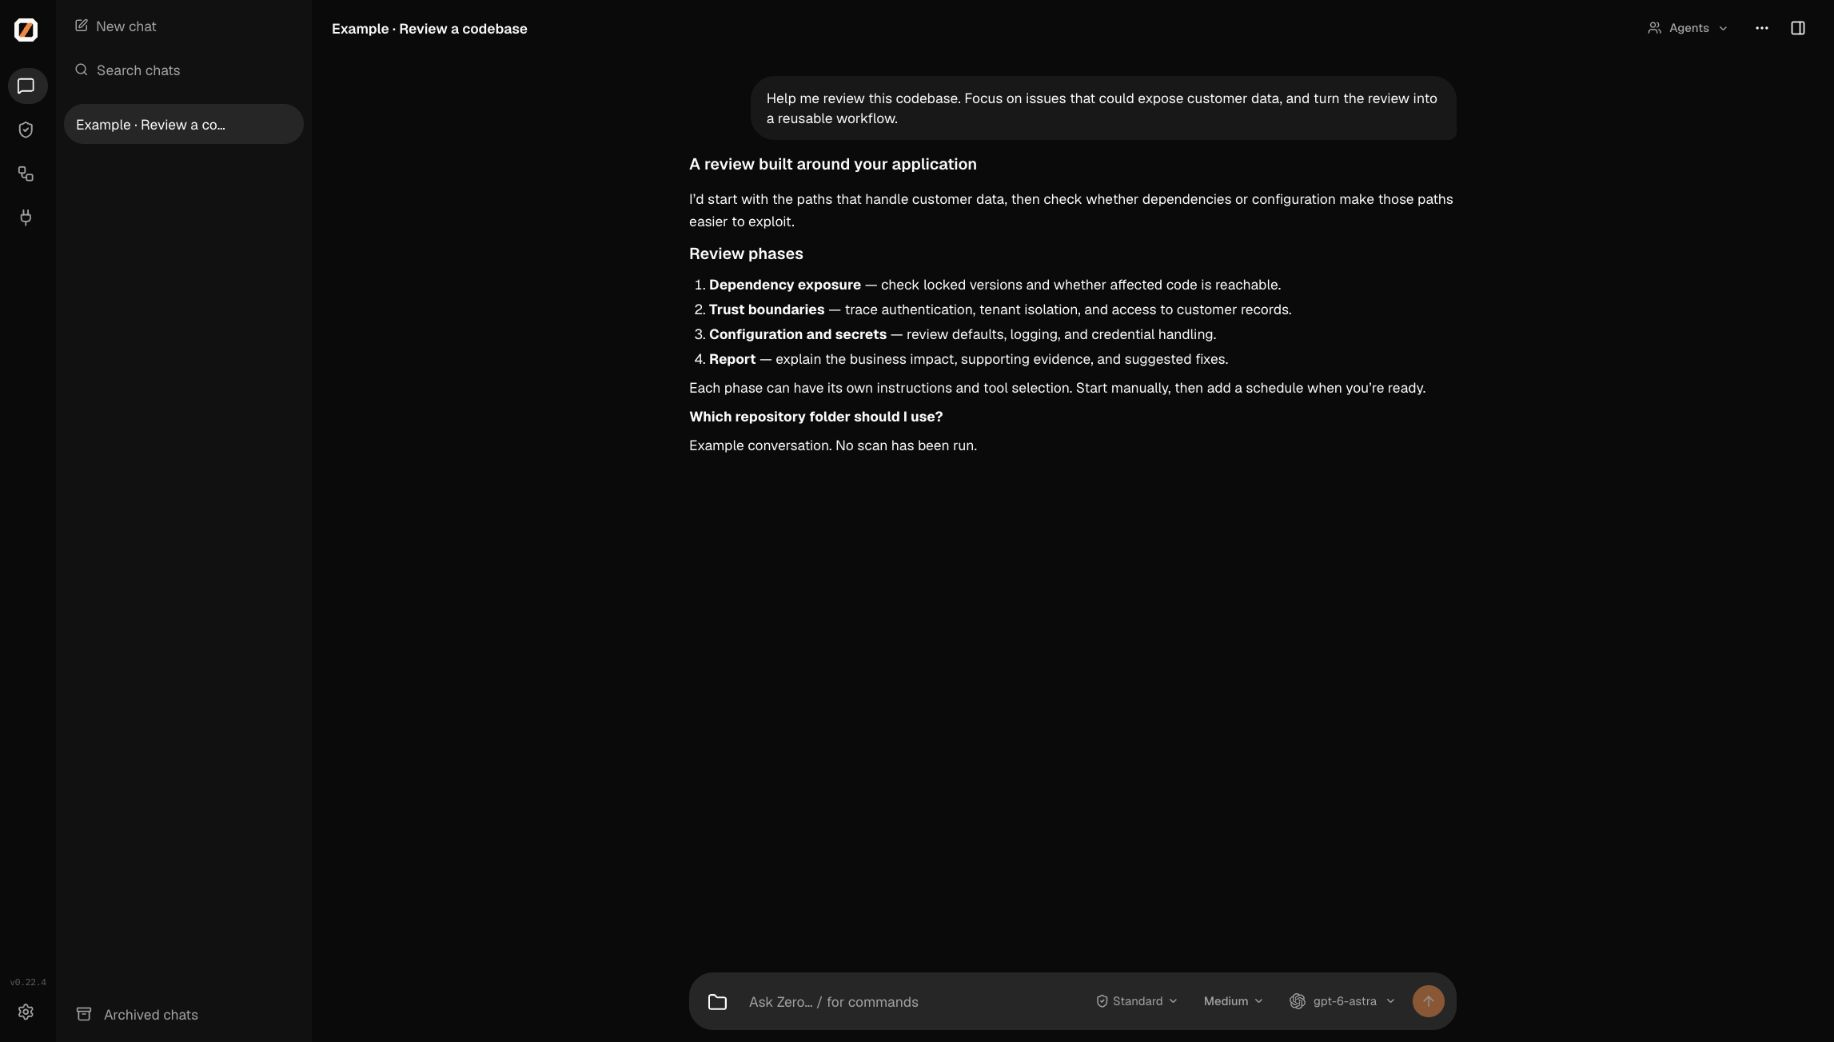
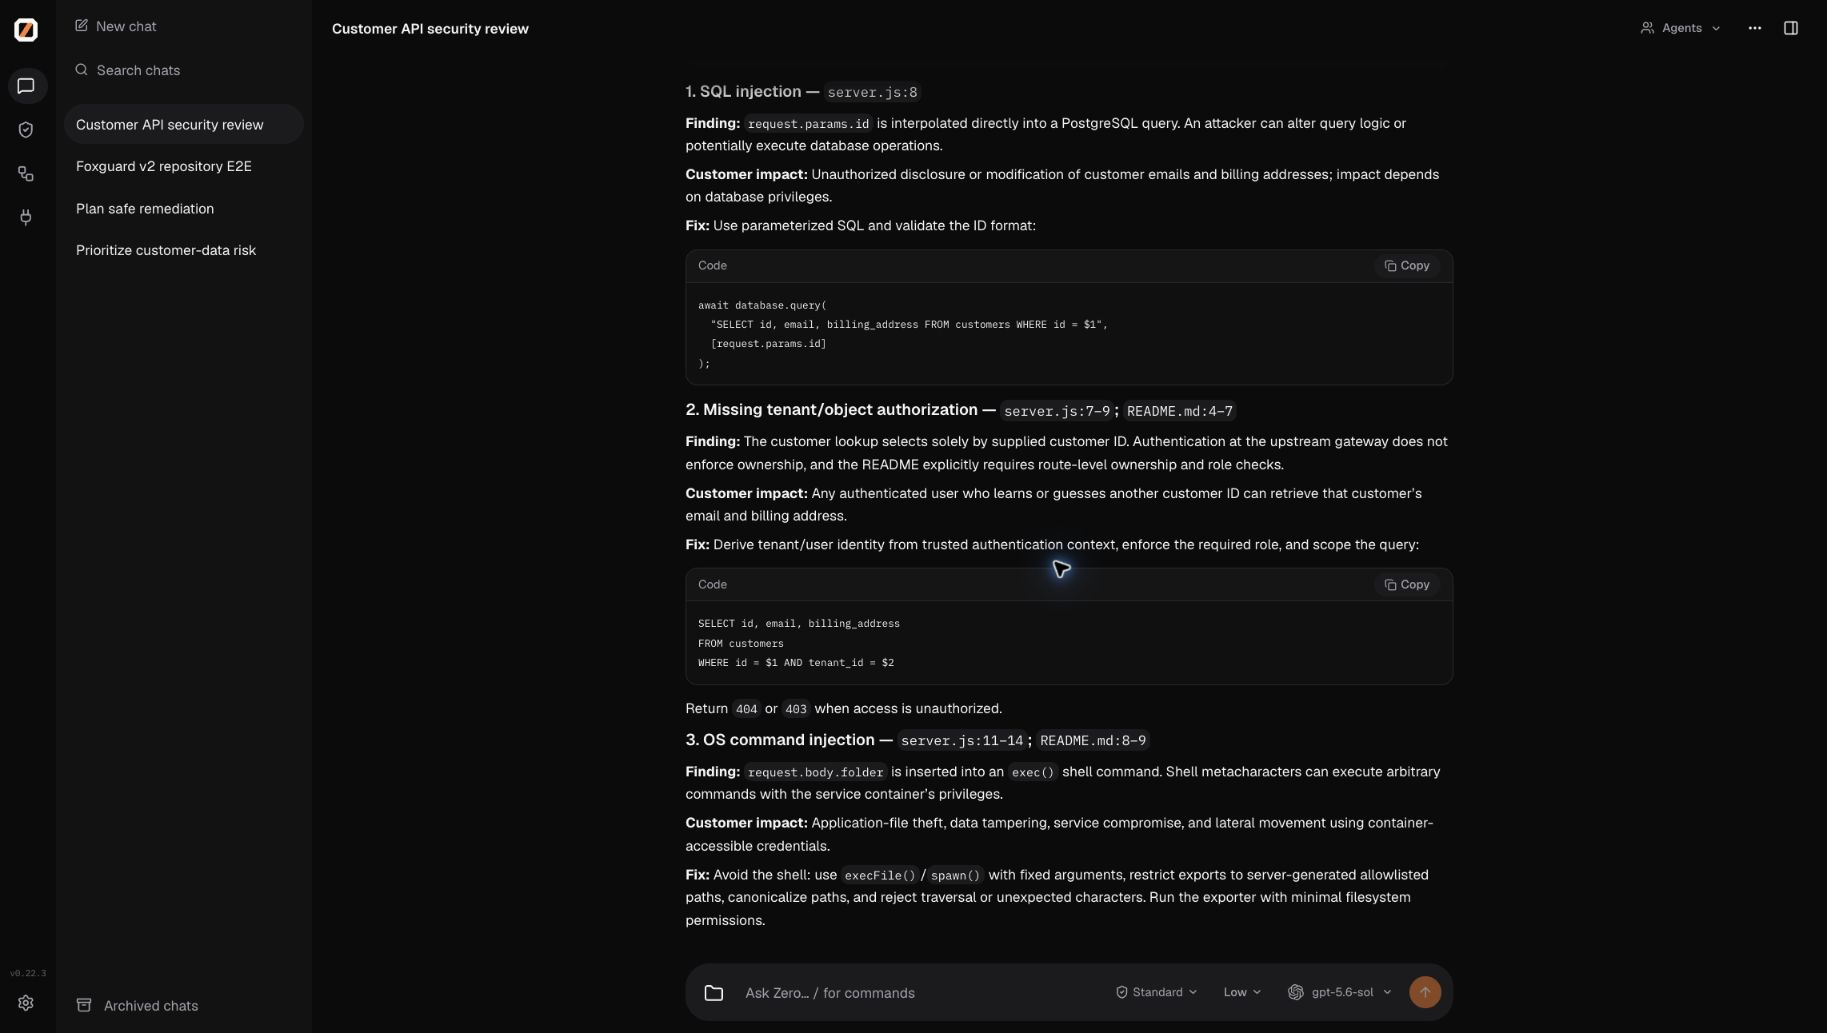
docs: replace staged screenshots with real security review

diff --git a/assets/examples/demo-api/server.js b/assets/examples/demo-api/server.js
@@ -1,0 +1,16 @@
+// Intentionally vulnerable review fixture. Do not deploy or execute this file.
+import express from "express";
+import { exec } from "node:child_process";
+import database from "./database.js";
+const app = express();
+app.use(express.json());
+app.get("/api/customers/:id", async (request, response) => {
+  const customer = await database.query(`SELECT id, email, billing_address FROM customers WHERE id = '${request.params.id}'`);
+  response.json(customer.rows);
+});
+app.post("/api/exports", (request, response) => {
+  exec(`tar -czf /tmp/export.tar.gz ${request.body.folder}`, (error) => {
+    response.status(error ? 500 : 200).json({ ready: !error });
+  });
+});
+export default app;

diff --git a/assets/examples/demo-api/review.md b/assets/examples/demo-api/review.md
@@ -1,0 +1,37 @@
+# Customer API security review
+
+Generated by a real Zero chat using `gpt-5.6-sol`, with source read through `read_file`.
+This review identifies source flaws; it does not include runtime exploit verification.
+
+### 1. SQL injection — `server.js:8`
+**Finding:** `request.params.id` is interpolated directly into a PostgreSQL query. An attacker can alter query logic or potentially execute database operations.
+
+**Customer impact:** Unauthorized disclosure or modification of customer emails and billing addresses; impact depends on database privileges.
+
+**Fix:** Use parameterized SQL and validate the ID format:
+```js
+await database.query(
+  "SELECT id, email, billing_address FROM customers WHERE id = $1",
+  [request.params.id]
+);
+```
+
+### 2. Missing tenant/object authorization — `server.js:7–9`; `README.md:4–7`
+**Finding:** The customer lookup selects solely by supplied customer ID. Authentication at the upstream gateway does not enforce ownership, and the README explicitly requires route-level ownership and role checks.
+
+**Customer impact:** Any authenticated user who learns or guesses another customer ID can retrieve that customer’s email and billing address.
+
+**Fix:** Derive tenant/user identity from trusted authentication context, enforce the required role, and scope the query:
+```sql
+SELECT id, email, billing_address
+FROM customers
+WHERE id = $1 AND tenant_id = $2
+```
+Return `404` or `403` when access is unauthorized.
+
+### 3. OS command injection — `server.js:11–14`; `README.md:8–9`
+**Finding:** `request.body.folder` is inserted into an `exec()` shell command. Shell metacharacters can execute arbitrary commands with the service container’s privileges.
+
+**Customer impact:** Application-file theft, data tampering, service compromise, and lateral movement using container-accessible credentials.
+
+**Fix:** Avoid the shell: use `execFile()`/`spawn()` with fixed arguments, restrict exports to server-generated allowlisted paths, canonicalize paths, and reject traversal or unexpected characters. Run the exporter with minimal filesystem permissions.

diff --git a/README.md b/README.md
@@ -51,17 +51,15 @@ browser, use **Workflows** for reusable reviews and **Plugins** to connect your 
 
 ### Chat
 
-Plan a security review in chat.
+Review code, prioritize findings, and plan fixes in chat.
 
-![Example conversation in the Zero web app](assets/screenshots/web-chat.jpg)
+![Customer API security review in the Zero web app](assets/screenshots/web-chat.jpg)
 
 ### Workflows
 
 Customize review phases, tools, and triggers.
 
-![Repository review workflow in the Zero web app](assets/screenshots/web-workflow.jpg)
-
-*Actual frontend with example content. No scan results are shown.*
+![Customer API security workflow in the Zero web app](assets/screenshots/web-workflow.jpg)
 
 </details>
 

diff --git a/assets/examples/demo-api/README.md b/assets/examples/demo-api/README.md
@@ -1,0 +1,9 @@
+# Demo customer API
+
+Intentionally vulnerable source for reproducible Zero UI demonstrations.
+Do not deploy or run it. Review source only; do not send requests or execute payloads.
+
+The API handles customer email and billing addresses for a multi-tenant service.
+An upstream gateway authenticates signed-in users, but these routes must enforce
+customer ownership and role permissions. The database uses PostgreSQL. The export
+route runs in a service container with access to application files.
